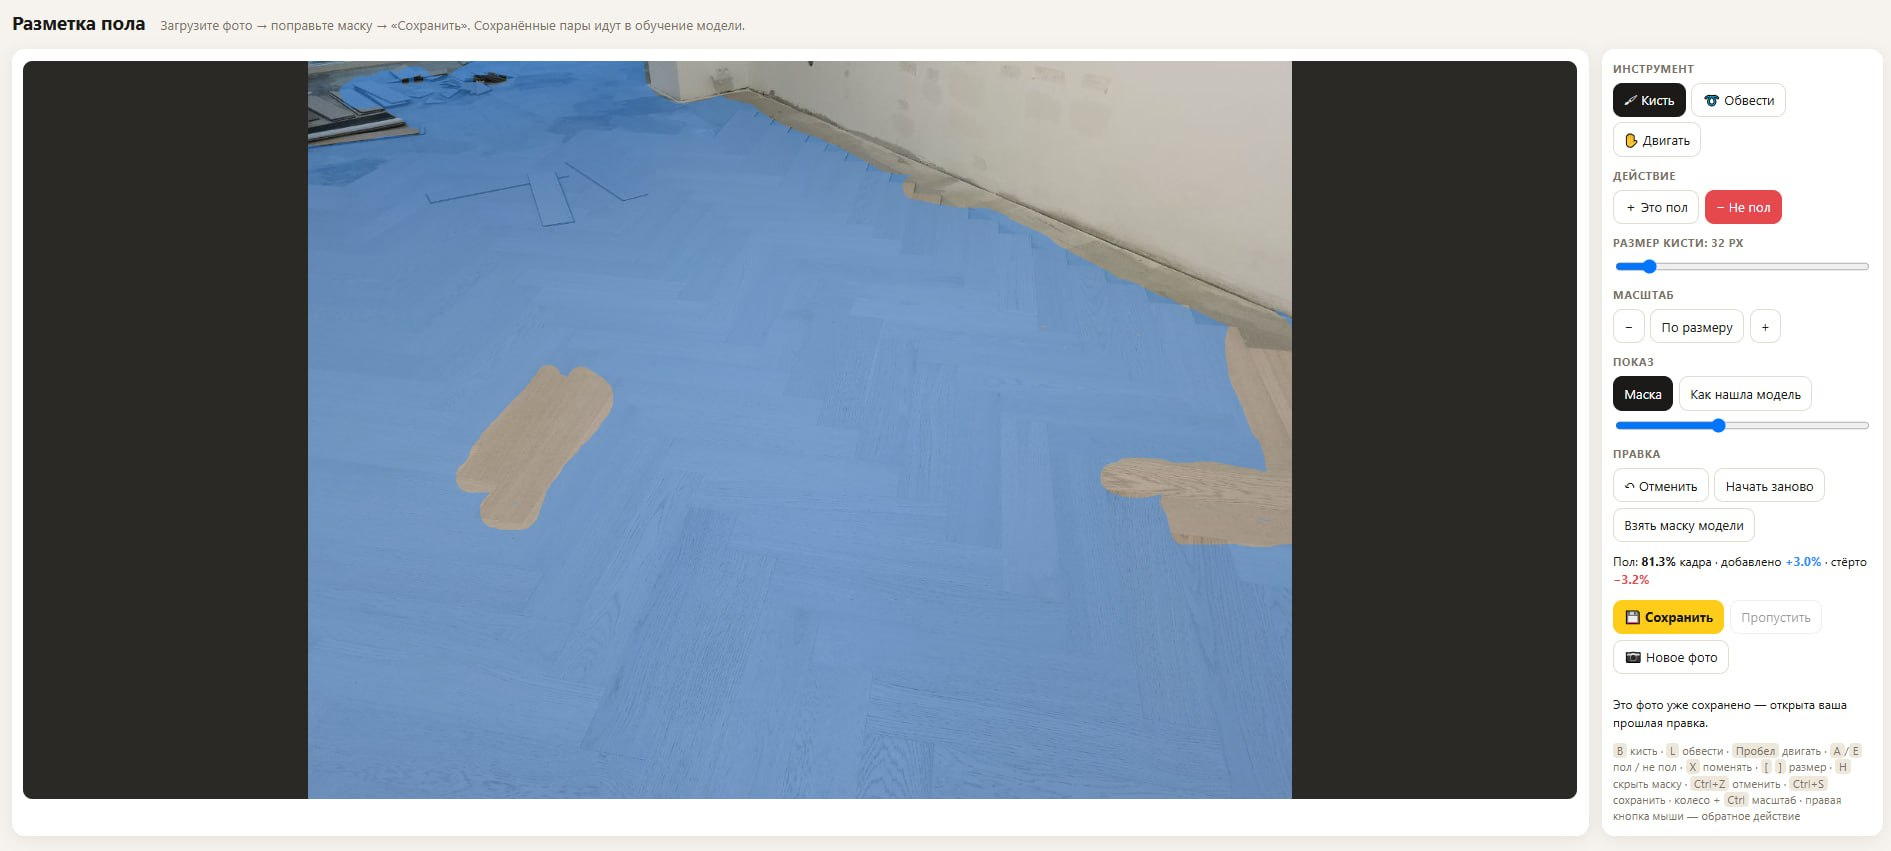
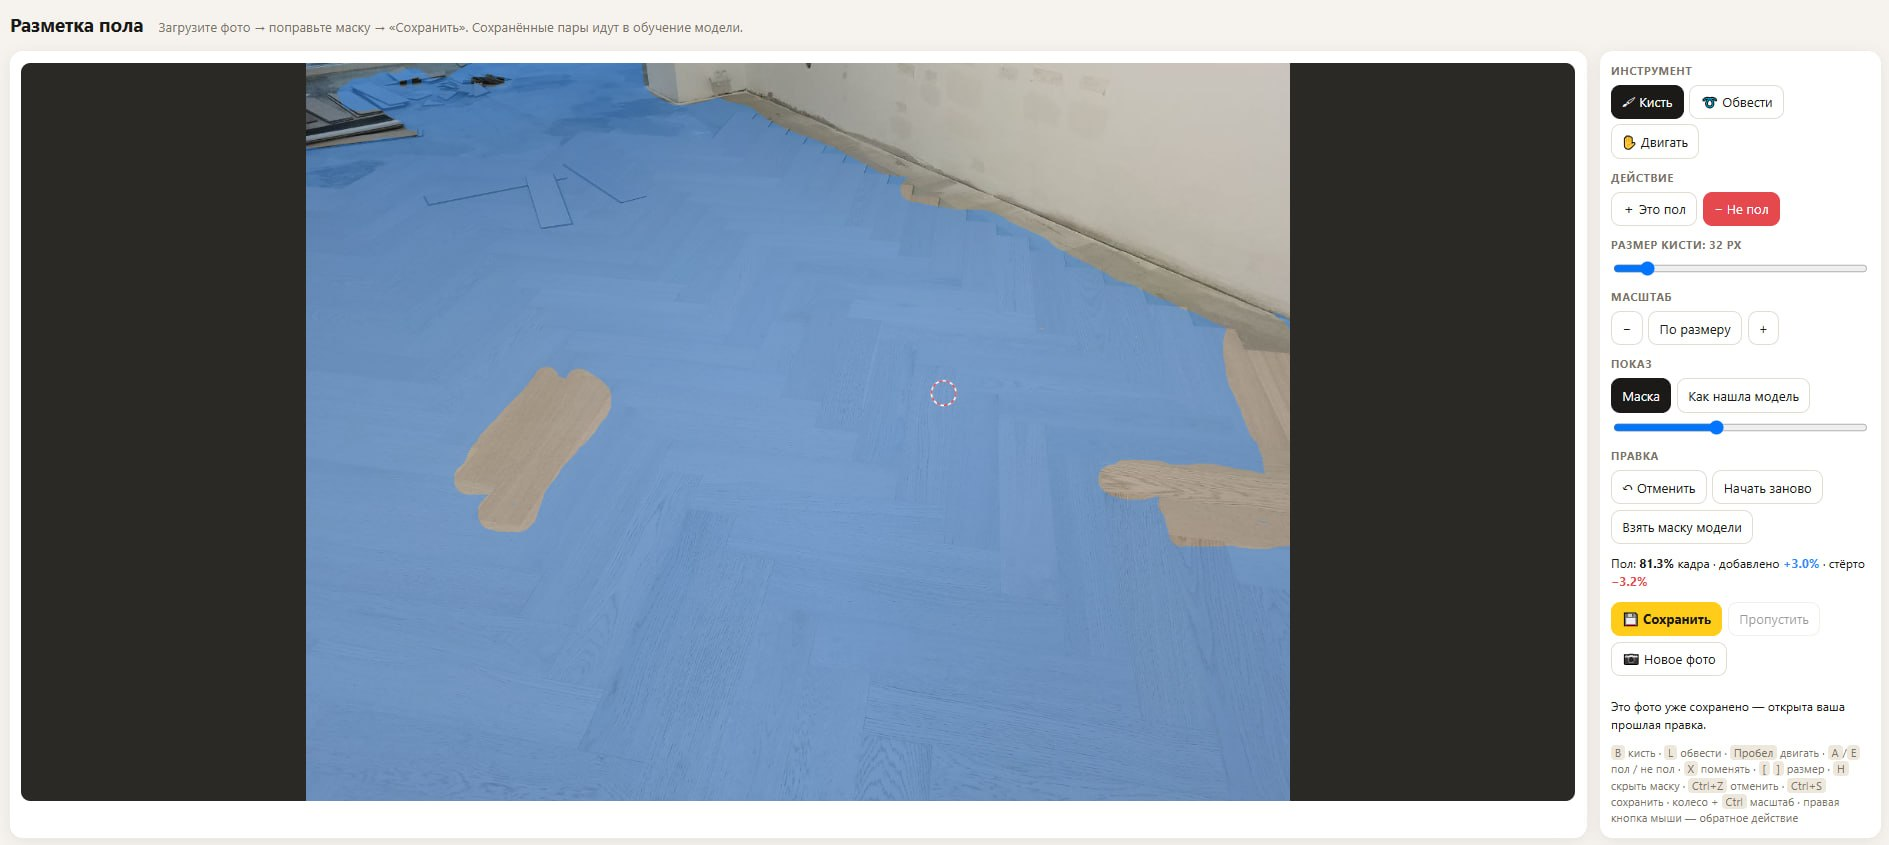
Labelling screenshot with brush cursor

diff --git a/README.md b/README.md
@@ -70,7 +70,7 @@
 
 Самое слабое место — маска пола. От неё зависит, сработает ли дешёвый путь. Поэтому вместо того, чтобы сразу переходить на дорогую модель, мы набираем свои данные:
 
-- В сервис встроен редактор разметки «пол / не пол», как в Paint: кисть и лассо, режимы «Это пол» и «Не пол», размер кисти, масштаб, отмена, горячие клавиши. Можно переключиться на «как нашла модель» и сравнить, а внизу видно, какая доля кадра — пол и сколько добавлено или стёрто вручную.
+- В сервис встроен редактор разметки «пол / не пол», как в Paint: кисть и лассо, режимы «Это пол» и «Не пол», размер кисти (курсор показывает её границу и режим цветом), масштаб, отмена, горячие клавиши. Можно переключиться на «как нашла модель» и сравнить, а внизу видно, какая доля кадра — пол и сколько добавлено или стёрто вручную.
 - Каждая правка сохраняется парой «фото + верная маска». Рядом хранится то, что модель нашла сама, чтобы видеть разницу «было / стало».
 ![Редактор разметки пола](docs/labeling.jpg)
 

diff --git a/README.en.md b/README.en.md
@@ -65,7 +65,7 @@ Once the floor is chosen, the client can quickly try an interior: pick a style (
 
 The weak point is the floor mask: it decides whether the cheap path works. Instead of switching to the expensive model everywhere, we collect our own data:
 
-- A Paint-like "floor / not floor" labelling editor is built in: brush and lasso, add and erase modes, brush size, zoom, undo, hotkeys, a toggle to compare with the model's own mask, and live stats on floor share and how much was added or erased.
+- A Paint-like "floor / not floor" labelling editor is built in: brush and lasso, add and erase modes, brush size (the cursor shows its outline and mode by colour), zoom, undo, hotkeys, a toggle to compare with the model's own mask, and live stats on floor share and how much was added or erased.
 - Every correction is saved as a "photo + correct mask" pair, next to what the model found on its own.
 ![Labelling editor](docs/labeling.jpg)
 
